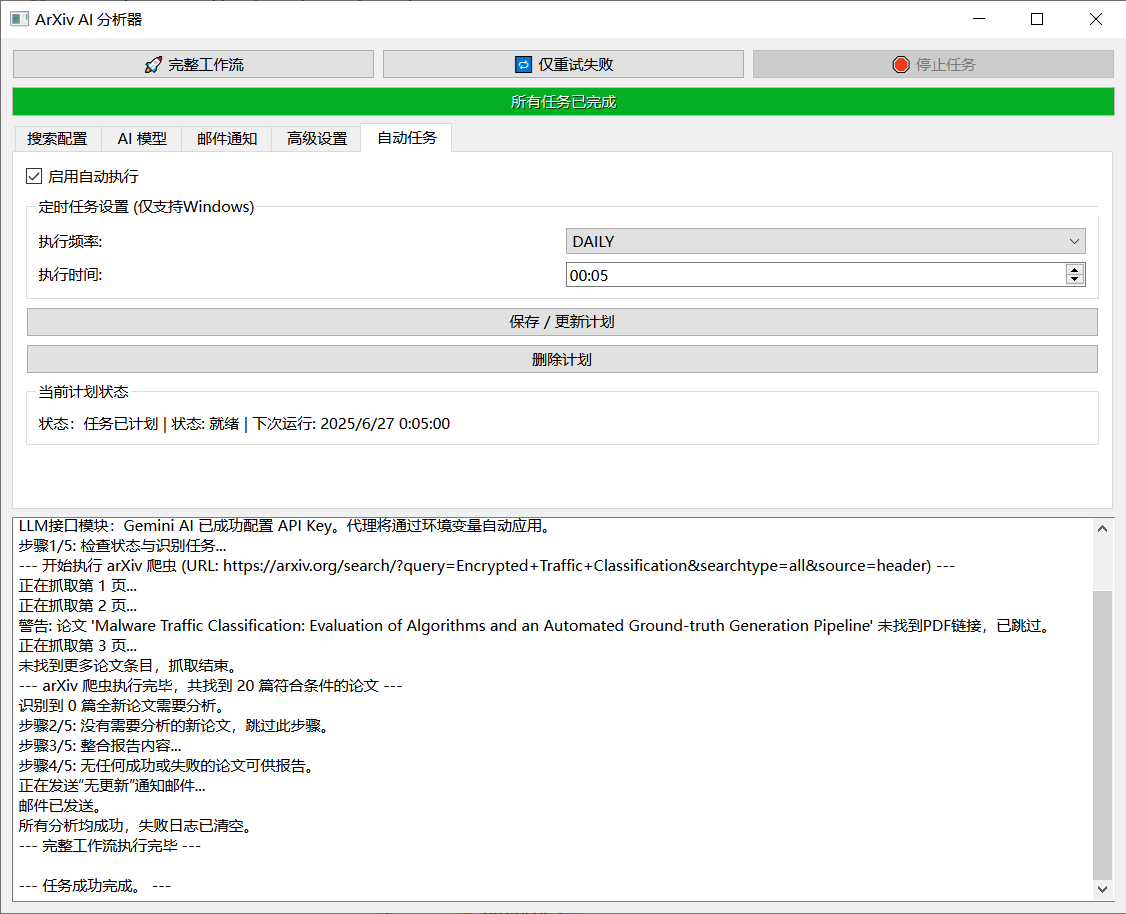
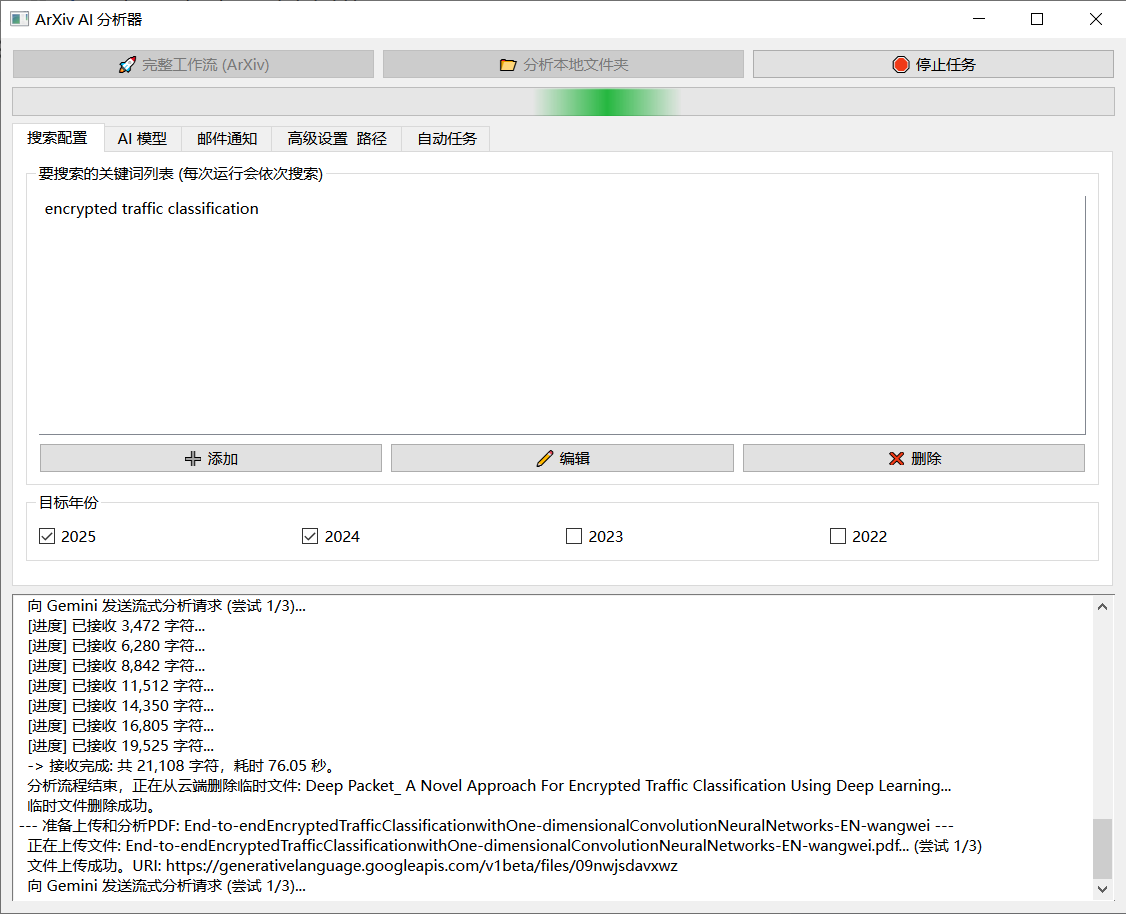
update

Changed region(s): [[0.0, 0.2451, 0.9947, 0.9803], [0.0, 0.0613, 0.9947, 0.3063], [0.9636, 0.6433, 0.9947, 0.919]]

diff --git a/README.md b/README.md
@@ -1,115 +1,131 @@
-# ArXiv AI 分析器 (ArXiv AI Analyzer)
+ArXiv AI 分析器 (ArXiv AI Analyzer)
+一个功能强大且带有图形用户界面（GUI）的自动化工具，旨在帮助科研人员和开发者追踪、分析和总结特定领域的最新 arXiv 论文，或批量处理本地PDF文件。本工具深度集成了 Google Gemini 模型，能够将复杂的学术论文转化为结构清晰、内容详尽的 HTML 分析报告，并通过邮件自动推送给您。
 
-一个功能强大的自动化工具，旨在帮助科研人员和开发者追踪、分析和总结特定领域的最新 arXiv 论文。本工具深度集成了 Google Gemini 模型，能够将复杂的学术论文转化为结构清晰、内容详尽的 HTML 分析报告，并通过邮件自动推送给您。
+📸 项目截图
+docs/images/screenshot.png
 
-## 📸 项目截图
+✨ 主要功能
+🚀 双模工作流:
 
-![应用截图](docs/images/screenshot.png)
+ArXiv工作流: 根据您设定的关键词和年份，自动从 arXiv 网站抓取最新的论文列表进行处理。
 
-## ✨ 主要功能
+分析本地文件夹: 递归扫描您指定的本地文件夹，对其中所有的PDF文件进行批量分析。
 
-* **🚀 自动化论文追踪**: 根据您设定的关键词和年份，自动从 arXiv 网站抓取最新的论文列表。
-* **🧠 Gemini 驱动的深度分析**: 利用 Google Gemini 的强大能力，对每篇论文进行深度剖析，生成包含**核心解析**和**复现路线图**的详细 HTML 报告。
-* **🖥 友好的图形用户界面**: 基于 PyQt6 构建了现代化且易于操作的用户界面，让您可以轻松配置所有参数，包括搜索、AI 模型、邮件、代理和定时任务。
-* **📧 智能邮件通知**: 自动将新发现的论文、AI 分析报告（HTML）、论文原文（PDF）等附件打包，通过邮件发送给您。支持成功、失败及无更新等多种报告模式。
-* **⏰ Windows 定时任务**: 可直接在 GUI 中创建、管理和删除 Windows 系统级别的定时任务，实现无人值守的自动化运行。
-* **💪 健壮的执行流程**:
-    * 支持失败任务的单独重试。
-    * 通过状态管理，避免对已成功分析和报告的论文进行重复操作。
-    * 支持通过 HTTP/HTTPS 代理进行网络访问。
+🧠 Gemini 驱动的深度分析: 利用 Google Gemini 的强大能力，对每篇论文进行深度剖析，生成包含核心解析和复现路线图的详细 HTML 报告。
 
-## 📂 项目结构
+🖥 友好的图形用户界面: 基于 PyQt6 构建了现代化且易于操作的用户界面，让您可以轻松配置所有参数，包括搜索、AI 模型、邮件、代理和定时任务。
 
+📧 智能邮件通知:
+
+自动将新生成的分析报告（HTML）和论文原文（PDF）打包，通过邮件发送。
+
+支持分类发送：可将摘要中含 "IEEE" 的论文与其它论文分开发送。
+
+支持分批发送：当报告数量过多时，会自动切割成每20份报告一封邮件，避免附件过大。
+
+⏰ Windows 定时任务: 可直接在 GUI 中创建、管理和删除 Windows 系统级别的定时任务，实现无人值守的自动化运行。
+
+💪 极其健壮的执行流程:
+
+统一状态管理: 使用单一的 analysis_progress.json 文件，精确追踪每一篇论文从“被发现”到“已邮件报告”的完整生命周期。
+
+基于MD5的防重机制: 通过计算PDF文件的MD5哈希值作为唯一标识，彻底避免了因文件名、来源不同而导致的重复分析。
+
+断点续传与即时保存: 所有进度都即时保存，即使程序意外中断，下次运行时也能从断点处继续，不会丢失已完成的工作。
+
+支持通过 HTTP/HTTPS 代理进行网络访问。
+
+📂 项目结构
 本项目采用了清晰的模块化结构，便于维护和二次开发。
 
-```
 /arxiv_ai_analyzer/
 ├── src/
 │   └── arxiv_analyzer/
 │       ├── __init__.py
-│       ├── gui/            # GUI 相关模块
-│       ├── core/           # 核心工作流模块
-│       ├── utils/          # 工具类模块 (配置、通知、爬虫)
-│       └── cli/            # 命令行/后台任务模块
+│       ├── gui/            # GUI 相关模块 (main_window.py, worker.py)
+│       ├── core/           # 核心工作流模块 (main.py)
+│       ├── utils/          # 工具类模块 (config_manager.py, notifier.py, arxiv_scrapers.py)
+│       └── cli/            # 命令行/后台任务模块 (scheduler_manager.py)
 ├── .gitignore
 ├── LICENSE
 ├── README.md
 ├── requirements.txt
 └── gui_main.py             # 主程序入口
-```
 
-## 🚀 快速开始
-
+🚀 快速开始
 请遵循以下步骤在您的本地环境中运行本项目。
 
-### 1. 克隆项目
-
-```bash
-git clone [https://github.com/YOUR_USERNAME/arxiv_ai_analyzer.git](https://github.com/YOUR_USERNAME/arxiv_ai_analyzer.git)
+1. 克隆项目
+git clone https://github.com/YOUR_USERNAME/arxiv_ai_analyzer.git
 cd arxiv_ai_analyzer
-```
 
-### 2. 安装依赖
-
+2. 安装依赖
 建议在 Python 虚拟环境中安装项目所需的依赖。
 
-```bash
 pip install -r requirements.txt
-```
-*(注: `requirements.txt` 文件需要您通过 `pip freeze > requirements.txt` 命令在您的环境中生成。)*
 
-### 3. 进行配置
+(注: 如果 requirements.txt 文件不存在，您可以通过 pip freeze > requirements.txt 命令在您的环境中生成。)
 
-这是运行本应用最关键的一步。
+3. 运行并配置
+本应用的所有配置都通过图形界面完成，无需手动编辑JSON文件。
 
-1.  在项目根目录中，找到 `config.template.json` 文件。
-2.  复制该文件并重命名为 `config.json`。
-3.  打开 `config.json`，**填入您自己的个人信息**，尤其是以下字段：
-    * `api_key`: 您的 Google Gemini API 密钥。
-    * `email_sender`: 您的发件人邮箱地址。
-    * `email_password`: 您的邮箱授权码（**注意：不是邮箱登录密码**）。
-    * `email_receiver`: 您的收件人邮箱地址。
+首次启动程序:
 
-### 4. 运行程序
-
-一切就绪后，通过以下命令启动图形用户界面：
-
-```bash
 python gui_main.py
-```
 
-## 🛠 使用说明
+程序将在项目根目录自动创建一个 config.json 文件。
 
-### 图形界面模式 (GUI)
+关键配置:
 
-直接运行 `gui_main.py` 即可打开主窗口。您可以在不同的标签页中完成所有配置，然后点击 "完整工作流" 或 "仅重试失败" 按钮来启动任务。所有日志将实时显示在下方的文本框中。
+输入API Key: 打开应用后，进入 "AI 模型" 标签页，在 "Gemini API Key" 输入框中填入您的 Google Gemini API 密钥。
 
-### 无界面后台模式 (Headless)
+设置邮箱: 进入 "邮件通知" 标签页，填入您的发件人邮箱、授权码（注意：不是邮箱登录密码）和收件人邮箱。
 
-如果您希望通过脚本或定时任务在后台运行，可以使用 `--run-task` 参数。这在服务器上部署时尤其有用。
+指定路径: 进入 "高级设置 & 路径" 标签页，为“完整工作流”和“分析本地文件夹”两个功能分别指定目录。
 
-```bash
+完成！ 现在您可以开始使用各项功能了。所有设置都会在修改后自动保存。
+
+🛠 使用说明
+图形界面模式 (GUI)
+直接运行 gui_main.py 即可打开主窗口。您可以在不同的标签页中完成所有配置，然后点击 "完整工作流 (ArXiv)" 或 "分析本地文件夹" 按钮来启动相应的任务。所有日志将实时显示在下方的文本框中。
+
+无界面后台模式 (Headless)
+如果您希望通过脚本或定时任务在后台运行 ArXiv完整工作流，可以使用 --run-task 参数。这在服务器上部署时尤其有用。
+
 python gui_main.py --run-task
-```
+
 此命令将直接执行一次“完整工作流”，并将所有日志打印到控制台。
 
-## ⚙ 配置说明
+⚙ 配置说明
+所有配置项都可以在图形界面中设置。本节内容仅供参考，或用于手动编辑 config.json 文件。
 
-所有配置均在 `config.json` 文件中进行。主要配置项如下：
+search_keyword_list: (搜索配置) 您关心的研究领域关键词列表。
 
-* **`search_keywords`**: 您关心的研究领域关键词。
-* **`search_years`**: 希望抓取的论文发表年份。
-* **`api_key`**: Gemini API 密钥。
-* **`model_name`**: 使用的 Gemini 模型，例如 `gemini-2.5-pro`。
-* **`prompt`**: 对 AI下达的核心指令，您可以根据需求进行微调。
-* **`email_*`**: 邮件通知相关配置。
-* **`proxy_*`**: 网络代理配置。
-* **`output_dir`**: 下载的论文和报告的存放路径。
-* **`schedule_*`**: Windows 定时任务相关配置。
+search_years: (搜索配置) 希望抓取的论文发表年份列表。
 
-## 📝 待办事项 (To-Do)
+api_key: (AI 模型) Gemini API 密钥。
 
-- [ ] 支持除 arXiv 外更多学术论文来源 (如 anystyle)。
-- [ ] 为 Linux/macOS 添加定时任务支持 (使用 `cron`)。
-- [ ] 增加更详细的错误处理和日志记录。
-- [ ] 使用 `PyInstaller` 或 `Nuitka` 将其打包为单个可执行文件。
+model_name: (AI 模型) 使用的 Gemini 模型，例如 gemini-2.5-pro。
+
+prompt: (AI 模型) 对 AI下达的核心指令，您可以根据需求进行微调。
+
+email_*: (邮件通知) 邮件通知相关配置。
+
+proxy_*: (高级设置) 网络代理配置。
+
+arxiv_output_dir: (高级设置) “完整工作流”下载的论文和报告的存放路径。
+
+local_scan_dir: (高级设置) “分析本地文件夹”功能要扫描的源文件夹路径。
+
+schedule_*: (自动任务) Windows 定时任务相关配置。
+
+📝 待办事项 (To-Do)
+[ ] 支持除 arXiv 外更多学术论文来源。
+
+[ ] 为 Linux/macOS 添加定时任务支持 (使用 cron)。
+
+[x] 已考虑使用 PyInstaller 或 Nuitka 打包为单个可执行文件 (项目已支持打包后路径检测)。
+
+[ ] 增加更详细的错误分类和用户提示。
+
+[ ] 允许为“本地文件夹分析”工作流设置独立的邮件报告分组。
